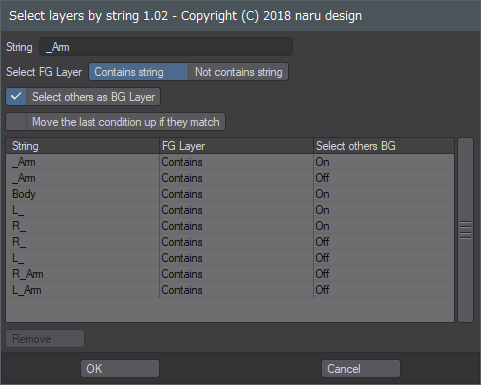
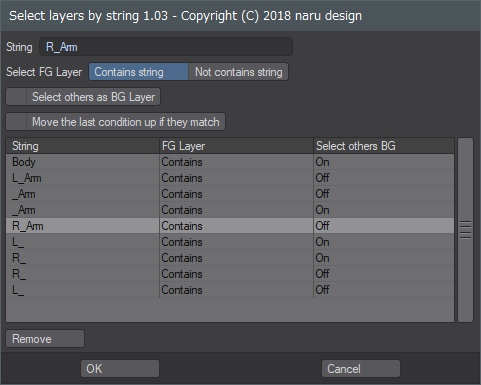
Update doc and zip

diff --git a/Modeler/SelectLayersByString/README_jp.md b/Modeler/SelectLayersByString/README_jp.md
@@ -54,6 +54,10 @@ Specify whether to select the layer containing the string as the foreground laye
 
 2018.12.11 (ver.1.02)
 
+- 修正：デフォルトの検索条件が履歴リストの先頭に固定される問題
+
+2018.12.11 (ver.1.02)
+
 - 追加：自動的に履歴を先頭へ移動することを選択できるようにした
 
 2018.12.10 (ver.1.01)

diff --git a/Modeler/SelectLayersByString/README.md b/Modeler/SelectLayersByString/README.md
@@ -51,6 +51,10 @@ Deletes the selected history.
 
 ## Change log
 
+2018.12.11 (ver.1.03)
+
+- Fix : Issue where default search condition is fixed at the top of history list.
+
 2018.12.11 (ver.1.02)
 
 - Whether or not to make the selectable, matching history move to the top
